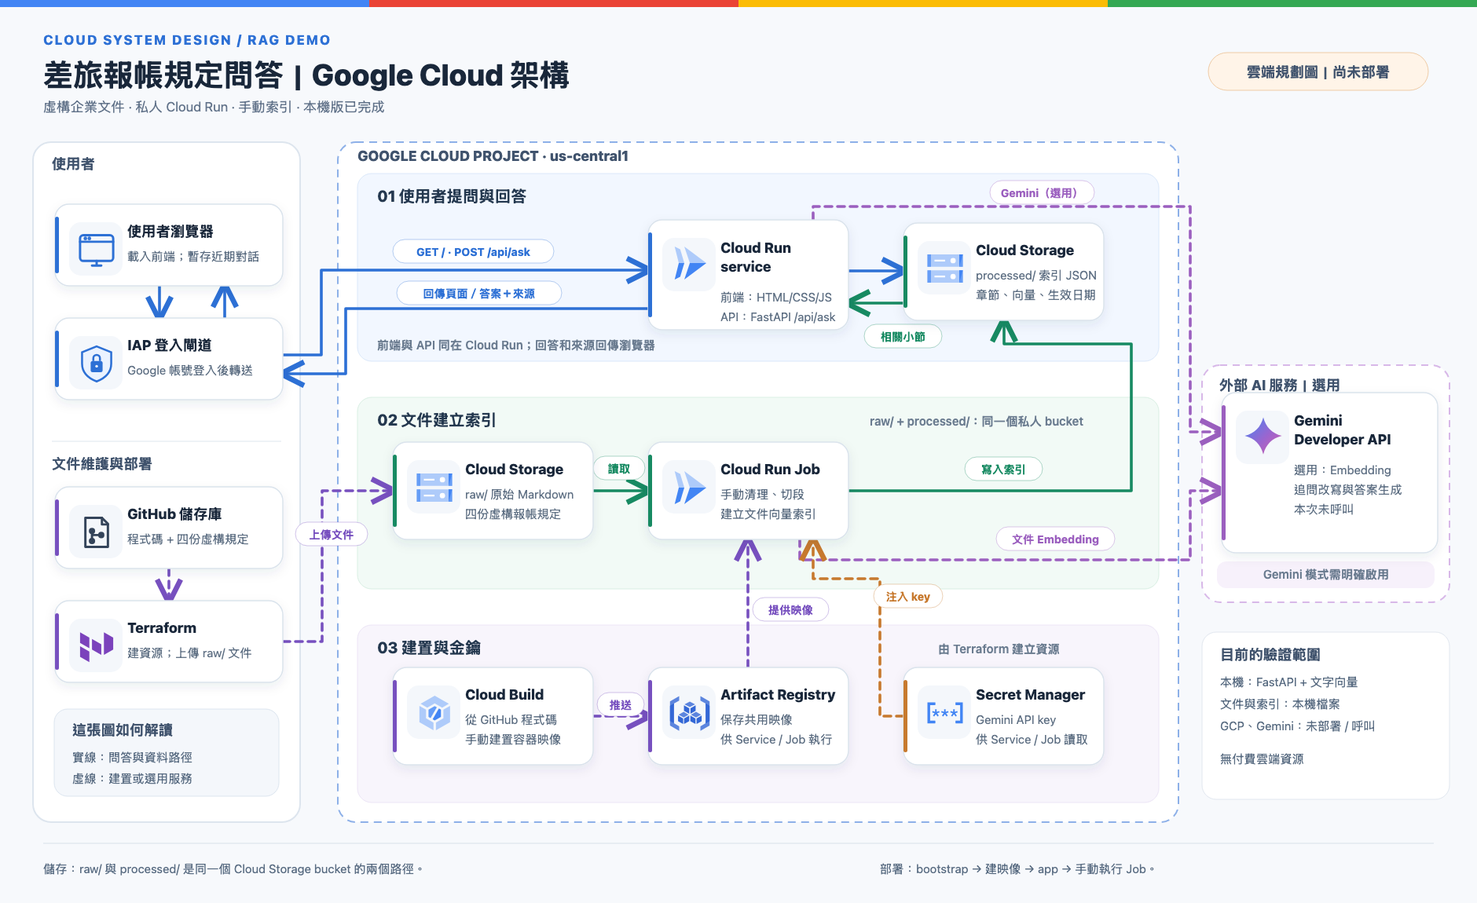
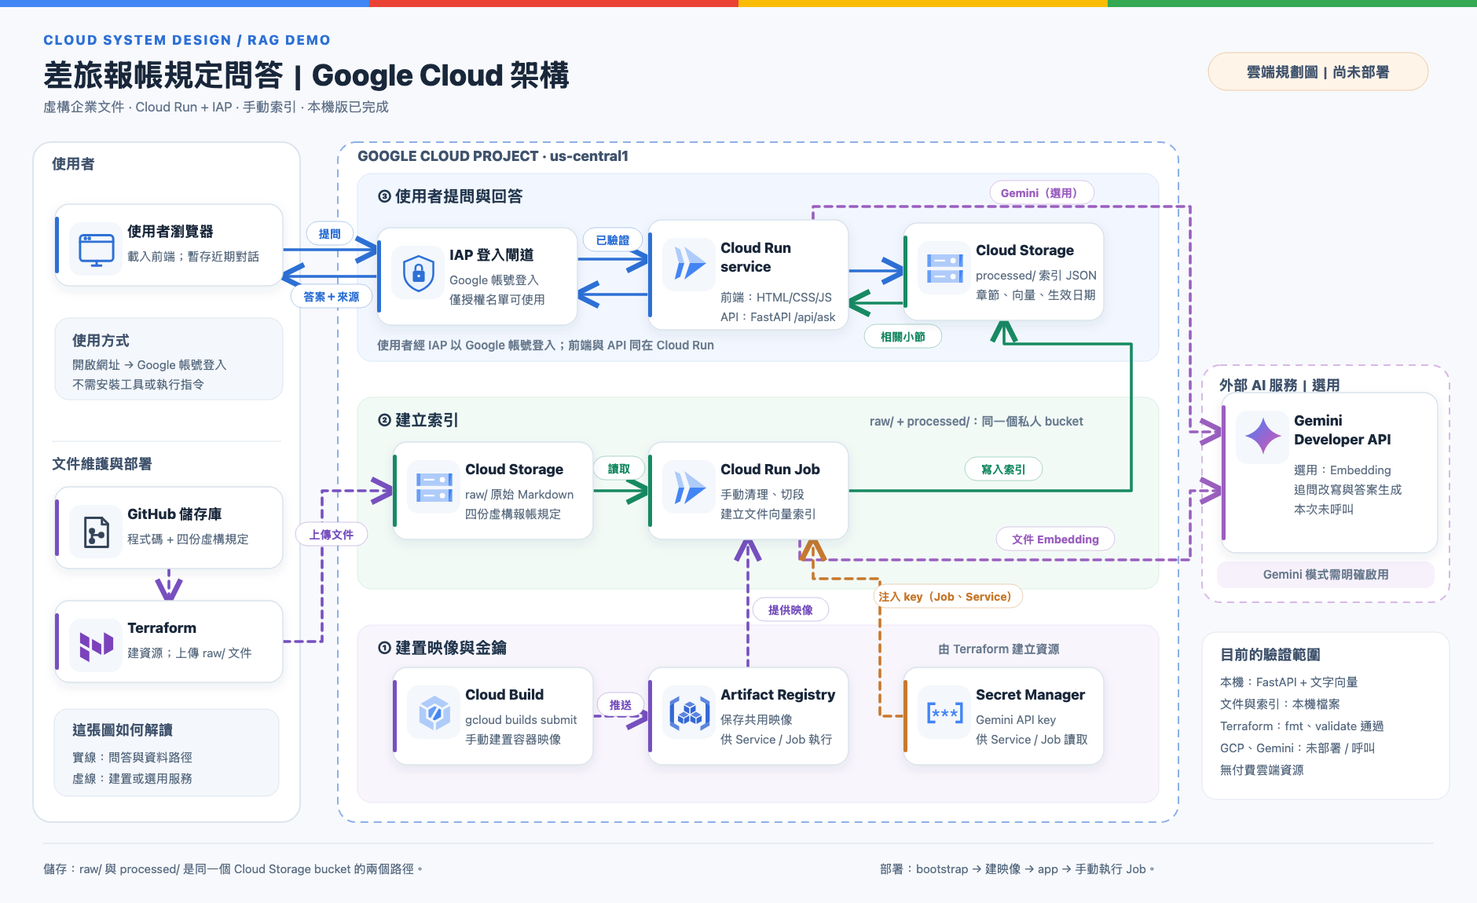
Align README and simple diagram with detailed architecture
Use the same flow numbering (1 build, 2 index, 3 ask) everywhere,
place IAP inside the GCP project, show gcloud builds submit as the
build source, and note that the key is injected into Job and Service.
List README components by flow so they match the diagram boxes.

diff --git a/docs/diagrams/cloud-architecture.html b/docs/diagrams/cloud-architecture.html
@@ -29,7 +29,7 @@
 <rect x="0" y="0" width="470" height="9" fill="#4285F4"/><rect x="470" y="0" width="470" height="9" fill="#EA4335"/><rect x="940" y="0" width="470" height="9" fill="#FBBC05"/><rect x="1410" y="0" width="470" height="9" fill="#34A853"/>
 <text x="55" y="57" class="kicker" >CLOUD SYSTEM DESIGN / RAG DEMO</text>
 <text x="55" y="109" class="title" >差旅報帳規定問答｜Google Cloud 架構</text>
-<text x="55" y="142" class="subtitle" >虛構企業文件 · 私人 Cloud Run · 手動索引 · 本機版已完成</text>
+<text x="55" y="142" class="subtitle" >虛構企業文件 · Cloud Run + IAP · 手動索引 · 本機版已完成</text>
 <rect x="1538" y="67" width="280" height="48" rx="24" fill="#FFF4E8" stroke="#EFCBA5"/>
 <text x="1678" y="98" class="boundary-title" text-anchor="middle" fill="#A56724">雲端規劃圖｜尚未部署</text>
 <rect x="42" y="181" width="340" height="866" rx="23" fill="#FFFFFF" stroke="#DDE5EE" stroke-width="2"/>
@@ -43,18 +43,18 @@
 <text x="66" y="597" class="boundary-title" >文件維護與部署</text>
 <text x="455" y="205" class="boundary-title" >GOOGLE CLOUD PROJECT  ·  us-central1</text>
 <text x="1552" y="497" class="boundary-title" >外部 AI 服務｜選用</text>
-<text x="480" y="257" class="lane-title" >01  使用者提問與回答</text>
-<text x="480" y="445" class="lane-note" >前端與 API 同在 Cloud Run；回答和來源回傳瀏覽器</text>
-<text x="480" y="542" class="lane-title" >02  文件建立索引</text>
+<text x="480" y="257" class="lane-title" >③  使用者提問與回答</text>
+<text x="480" y="445" class="lane-note" >使用者經 IAP 以 Google 帳號登入；前端與 API 同在 Cloud Run</text>
+<text x="480" y="542" class="lane-title" >②  建立索引</text>
 <text x="1107" y="542" class="lane-note" >raw/ + processed/：同一個私人 bucket</text>
-<text x="480" y="832" class="lane-title" >03  建置與金鑰</text>
+<text x="480" y="832" class="lane-title" >①  建置映像與金鑰</text>
 <text x="1194" y="832" class="lane-note" >由 Terraform 建立資源</text>
 <rect x="1549" y="715" width="277" height="34" rx="12" fill="#F7F1FB"/>
 <text x="1688" y="737" class="lane-note" text-anchor="middle" fill="#83519E">Gemini 模式需明確啟用</text>
-<g id="edge-browser-proxy" class="flow flow-blue"><path d="M 203 364 L 203 405" fill="none" stroke="#2D70D5" stroke-width="3.6" stroke-linecap="round" stroke-linejoin="round" marker-end="url(#arrow-blue)"/></g>
-<g id="edge-proxy-browser" class="flow flow-blue"><path d="M 286 405 L 286 364" fill="none" stroke="#2D70D5" stroke-width="3.6" stroke-linecap="round" stroke-linejoin="round" marker-end="url(#arrow-blue)"/></g>
-<g id="edge-proxy-service" class="flow flow-blue"><path d="M 360 452 L 409 452 L 409 344 L 825 344" fill="none" stroke="#2D70D5" stroke-width="3.6" stroke-linecap="round" stroke-linejoin="round" marker-end="url(#arrow-blue)"/></g>
-<g id="edge-service-proxy" class="flow flow-blue"><path d="M 825 393 L 440 393 L 440 476 L 360 476" fill="none" stroke="#2D70D5" stroke-width="3.6" stroke-linecap="round" stroke-linejoin="round" marker-end="url(#arrow-blue)"/></g>
+<g id="edge-browser-iap" class="flow flow-blue"><path d="M 360 318 L 480 318" fill="none" stroke="#2D70D5" stroke-width="3.6" stroke-linecap="round" stroke-linejoin="round" marker-end="url(#arrow-blue)"/></g>
+<g id="edge-iap-browser" class="flow flow-blue"><path d="M 480 352 L 360 352" fill="none" stroke="#2D70D5" stroke-width="3.6" stroke-linecap="round" stroke-linejoin="round" marker-end="url(#arrow-blue)"/></g>
+<g id="edge-iap-service" class="flow flow-blue"><path d="M 735 330 L 825 330" fill="none" stroke="#2D70D5" stroke-width="3.6" stroke-linecap="round" stroke-linejoin="round" marker-end="url(#arrow-blue)"/></g>
+<g id="edge-service-iap" class="flow flow-blue"><path d="M 825 375 L 735 375" fill="none" stroke="#2D70D5" stroke-width="3.6" stroke-linecap="round" stroke-linejoin="round" marker-end="url(#arrow-blue)"/></g>
 <g id="edge-service-index" class="flow flow-blue"><path d="M 1080 345 L 1150 345" fill="none" stroke="#2D70D5" stroke-width="3.6" stroke-linecap="round" stroke-linejoin="round" marker-end="url(#arrow-blue)"/></g>
 <g id="edge-index-service" class="flow flow-green"><path d="M 1150 386 L 1080 386" fill="none" stroke="#178A62" stroke-width="3.6" stroke-linecap="round" stroke-linejoin="round" marker-end="url(#arrow-green)"/></g>
 <g id="edge-repo-terraform" class="flow flow-violet"><path d="M 215 724 L 215 765" fill="none" stroke="#7750BF" stroke-width="3.6" stroke-linecap="round" stroke-linejoin="round" stroke-dasharray="9 7" marker-end="url(#arrow-violet)"/></g>
@@ -66,8 +66,9 @@
 <g id="edge-build-registry" class="flow flow-violet"><path d="M 755 912 L 825 912" fill="none" stroke="#7750BF" stroke-width="3.6" stroke-linecap="round" stroke-linejoin="round" stroke-dasharray="9 7" marker-end="url(#arrow-violet)"/></g>
 <g id="edge-registry-job" class="flow flow-violet"><path d="M 952 850 L 952 687" fill="none" stroke="#7750BF" stroke-width="3.6" stroke-linecap="round" stroke-linejoin="round" stroke-dasharray="9 7" marker-end="url(#arrow-violet)"/></g>
 <g id="edge-secret-job" class="flow flow-orange"><path d="M 1150 912 L 1120 912 L 1120 737 L 1035 737 L 1035 687" fill="none" stroke="#C7792E" stroke-width="3.6" stroke-linecap="round" stroke-linejoin="round" stroke-dasharray="9 7" marker-end="url(#arrow-orange)"/></g>
-<g class="flow flow-blue"><g><rect x="500" y="305" width="205" height="30" rx="15" fill="#fff" stroke="#2D70D5" stroke-opacity=".35"/><text x="602.5" y="326" class="edge-label" text-anchor="middle" fill="#2D70D5">GET / · POST /api/ask</text></g></g>
-<g class="flow flow-blue"><g><rect x="505" y="358" width="210" height="30" rx="15" fill="#fff" stroke="#2D70D5" stroke-opacity=".35"/><text x="610.0" y="379" class="edge-label" text-anchor="middle" fill="#2D70D5">回傳頁面／答案＋來源</text></g></g>
+<g class="flow flow-blue"><g><rect x="390" y="282" width="60" height="30" rx="15" fill="#fff" stroke="#2D70D5" stroke-opacity=".35"/><text x="420.0" y="303" class="edge-label" text-anchor="middle" fill="#2D70D5">提問</text></g></g>
+<g class="flow flow-blue"><g><rect x="370" y="362" width="104" height="30" rx="15" fill="#fff" stroke="#2D70D5" stroke-opacity=".35"/><text x="422.0" y="383" class="edge-label" text-anchor="middle" fill="#2D70D5">答案＋來源</text></g></g>
+<g class="flow flow-blue"><g><rect x="742" y="290" width="76" height="30" rx="15" fill="#fff" stroke="#2D70D5" stroke-opacity=".35"/><text x="780.0" y="311" class="edge-label" text-anchor="middle" fill="#2D70D5">已驗證</text></g></g>
 <g class="flow flow-green"><g><rect x="1100" y="413" width="99" height="30" rx="15" fill="#fff" stroke="#178A62" stroke-opacity=".35"/><text x="1149.5" y="434" class="edge-label" text-anchor="middle" fill="#178A62">相關小節</text></g></g>
 <g class="flow flow-violet"><g><rect x="376" y="665" width="92" height="30" rx="15" fill="#fff" stroke="#7750BF" stroke-opacity=".35"/><text x="422.0" y="686" class="edge-label" text-anchor="middle" fill="#7750BF">上傳文件</text></g></g>
 <g class="flow flow-green"><g><rect x="755" y="581" width="66" height="30" rx="15" fill="#fff" stroke="#178A62" stroke-opacity=".35"/><text x="788.0" y="602" class="edge-label" text-anchor="middle" fill="#178A62">讀取</text></g></g>
@@ -76,19 +77,23 @@
 <g class="flow flow-optional"><g><rect x="1268" y="671" width="151" height="30" rx="15" fill="#fff" stroke="#9B5FBF" stroke-opacity=".35"/><text x="1343.5" y="692" class="edge-label" text-anchor="middle" fill="#9B5FBF">文件 Embedding</text></g></g>
 <g class="flow flow-violet"><g><rect x="760" y="882" width="60" height="30" rx="15" fill="#fff" stroke="#7750BF" stroke-opacity=".35"/><text x="790.0" y="903" class="edge-label" text-anchor="middle" fill="#7750BF">推送</text></g></g>
 <g class="flow flow-violet"><g><rect x="958" y="761" width="97" height="30" rx="15" fill="#fff" stroke="#7750BF" stroke-opacity=".35"/><text x="1006.5" y="782" class="edge-label" text-anchor="middle" fill="#7750BF">提供映像</text></g></g>
-<g class="flow flow-orange"><g><rect x="1112" y="744" width="88" height="30" rx="15" fill="#fff" stroke="#C7792E" stroke-opacity=".35"/><text x="1156.0" y="765" class="edge-label" text-anchor="middle" fill="#C7792E">注入 key</text></g></g>
+<g class="flow flow-orange"><g><rect x="1112" y="744" width="190" height="30" rx="15" fill="#fff" stroke="#C7792E" stroke-opacity=".35"/><text x="1207.0" y="765" class="edge-label" text-anchor="middle" fill="#C7792E">注入 key（Job、Service）</text></g></g>
[14 lines of base64/hex data omitted]
+<rect x="70" y="405" width="290" height="104" rx="18" fill="#F4F7FB" stroke="#DCE5EF"/>
+<text x="92" y="440" class="boundary-title" >使用方式</text>
+<text x="92" y="470" class="footer" >開啟網址 → Google 帳號登入</text>
+<text x="92" y="495" class="footer" >不需安裝工具或執行指令</text>
 <rect x="69" y="903" width="286" height="111" rx="17" fill="#F4F7FB" stroke="#DCE5EF"/>
 <text x="92" y="936" class="boundary-title" >這張圖如何解讀</text>
 <text x="92" y="970" class="footer" >實線：問答與資料路徑</text>
@@ -97,8 +102,9 @@
 <text x="1553" y="840" class="boundary-title" >目前的驗證範圍</text>
 <text x="1553" y="874" class="footer" >本機：FastAPI + 文字向量</text>
 <text x="1553" y="902" class="footer" >文件與索引：本機檔案</text>
-<text x="1553" y="930" class="footer" >GCP、Gemini：未部署 / 呼叫</text>
-<text x="1553" y="972" class="footer" >無付費雲端資源</text>
+<text x="1553" y="930" class="footer" >Terraform：fmt、validate 通過</text>
+<text x="1553" y="958" class="footer" >GCP、Gemini：未部署 / 呼叫</text>
+<text x="1553" y="986" class="footer" >無付費雲端資源</text>
 <line x1="55" y1="1074" x2="1825" y2="1074" stroke="#D7E0E9"/>
 <text x="55" y="1112" class="footer" >儲存：raw/ 與 processed/ 是同一個 Cloud Storage bucket 的兩個路徑。</text>
 <text x="1120" y="1112" class="footer" >部署：bootstrap → 建映像 → app → 手動執行 Job。</text>

diff --git a/docs/diagrams/render_architecture.py b/docs/diagrams/render_architecture.py
@@ -40,14 +40,14 @@ COLORS = {
 NODES = [
     # id, x, y, width, height, icon, title, description lines, color
     ("browser", 70, 260, 290, 104, "browser", "使用者瀏覽器", ["載入前端；暫存近期對話"], "blue"),
-    ("proxy", 70, 405, 290, 104, "proxy", "IAP 登入閘道", ["Google 帳號登入後轉送"], "blue"),
     ("repo", 70, 620, 290, 104, "repo", "GitHub 儲存庫", ["程式碼 + 四份虛構規定"], "violet"),
     ("terraform", 70, 765, 290, 104, "terraform", "Terraform", ["建資源；上傳 raw/ 文件"], "violet"),
+    ("iap", 480, 290, 255, 124, "proxy", "IAP 登入閘道", ["Google 帳號登入", "僅授權名單可使用"], "blue"),
     ("service", 825, 280, 255, 140, "cloud_run", "Cloud Run\nservice", ["前端：HTML/CSS/JS", "API：FastAPI /api/ask"], "blue"),
     ("index", 1150, 284, 255, 124, "cloud_storage", "Cloud Storage", ["processed/ 索引 JSON", "章節、向量、生效日期"], "green"),
     ("raw", 500, 563, 255, 124, "cloud_storage", "Cloud Storage", ["raw/ 原始 Markdown", "四份虛構報帳規定"], "green"),
     ("job", 825, 563, 255, 124, "cloud_run", "Cloud Run Job", ["手動清理、切段", "建立文件向量索引"], "green"),
-    ("build", 500, 850, 255, 124, "cloud_build", "Cloud Build", ["從 GitHub 程式碼", "手動建置容器映像"], "violet"),
+    ("build", 500, 850, 255, 124, "cloud_build", "Cloud Build", ["gcloud builds submit", "手動建置容器映像"], "violet"),
     ("registry", 825, 850, 255, 124, "artifact_registry", "Artifact Registry", ["保存共用映像", "供 Service / Job 執行"], "violet"),
     ("secret", 1150, 850, 255, 124, "secret_manager", "Secret Manager", ["Gemini API key", "供 Service / Job 讀取"], "orange"),
     ("gemini", 1555, 500, 275, 204, "gemini", "Gemini\nDeveloper API", ["選用：Embedding", "追問改寫與答案生成", "本次未呼叫"], "optional"),
@@ -56,10 +56,10 @@ NODE_BY_ID = {node[0]: node for node in NODES}
 
 # Paths are intentionally routed through open corridors, away from service cards.
 EDGES = [
-    ("browser-proxy", "M 203 364 L 203 405", "blue", False, "browser", "proxy", "開啟網址／提問"),
-    ("proxy-browser", "M 286 405 L 286 364", "blue", False, "proxy", "browser", "前端／答案與來源"),
-    ("proxy-service", "M 360 452 L 409 452 L 409 344 L 825 344", "blue", False, "proxy", "service", "GET / · POST /api/ask"),
-    ("service-proxy", "M 825 393 L 440 393 L 440 476 L 360 476", "blue", False, "service", "proxy", "HTML/CSS/JS · 答案 JSON + 來源"),
+    ("browser-iap", "M 360 318 L 480 318", "blue", False, "browser", "iap", "提問"),
+    ("iap-browser", "M 480 352 L 360 352", "blue", False, "iap", "browser", "答案與來源"),
+    ("iap-service", "M 735 330 L 825 330", "blue", False, "iap", "service", "已驗證請求"),
+    ("service-iap", "M 825 375 L 735 375", "blue", False, "service", "iap", "頁面／答案 JSON"),
     ("service-index", "M 1080 345 L 1150 345", "blue", False, "service", "index", "搜尋現行索引"),
     ("index-service", "M 1150 386 L 1080 386", "green", False, "index", "service", "回傳相關小節"),
     ("repo-terraform", "M 215 724 L 215 765", "violet", True, "repo", "terraform", ""),
@@ -151,7 +151,7 @@ def make_svg() -> str:
            '<rect x="0" y="0" width="470" height="9" fill="#4285F4"/><rect x="470" y="0" width="470" height="9" fill="#EA4335"/><rect x="940" y="0" width="470" height="9" fill="#FBBC05"/><rect x="1410" y="0" width="470" height="9" fill="#34A853"/>',
            text(55, 57, "CLOUD SYSTEM DESIGN / RAG DEMO", "kicker"),
            text(55, 109, TITLE, "title"),
-           text(55, 142, "虛構企業文件 · 私人 Cloud Run · 手動索引 · 本機版已完成", "subtitle"),
+           text(55, 142, "虛構企業文件 · Cloud Run + IAP · 手動索引 · 本機版已完成", "subtitle"),
            '<rect x="1538" y="67" width="280" height="48" rx="24" fill="#FFF4E8" stroke="#EFCBA5"/>',
            text(1678, 98, "雲端規劃圖｜尚未部署", "boundary-title", 'text-anchor="middle" fill="#A56724"'),
            '<rect x="42" y="181" width="340" height="866" rx="23" fill="#FFFFFF" stroke="#DDE5EE" stroke-width="2"/>',
@@ -165,11 +165,11 @@ def make_svg() -> str:
            text(66, 597, "文件維護與部署", "boundary-title"),
            text(455, 205, "GOOGLE CLOUD PROJECT  ·  us-central1", "boundary-title"),
            text(1552, 497, "外部 AI 服務｜選用", "boundary-title"),
-           text(480, 257, "01  使用者提問與回答", "lane-title"),
-           text(480, 445, "前端與 API 同在 Cloud Run；回答和來源回傳瀏覽器", "lane-note"),
-           text(480, 542, "02  文件建立索引", "lane-title"),
+           text(480, 257, "③  使用者提問與回答", "lane-title"),
+           text(480, 445, "使用者經 IAP 以 Google 帳號登入；前端與 API 同在 Cloud Run", "lane-note"),
+           text(480, 542, "②  建立索引", "lane-title"),
            text(1107, 542, "raw/ + processed/：同一個私人 bucket", "lane-note"),
-           text(480, 832, "03  建置與金鑰", "lane-title"),
+           text(480, 832, "①  建置映像與金鑰", "lane-title"),
            text(1194, 832, "由 Terraform 建立資源", "lane-note"),
            '<rect x="1549" y="715" width="277" height="34" rx="12" fill="#F7F1FB"/>',
            text(1688, 737, "Gemini 模式需明確啟用", "lane-note", 'text-anchor="middle" fill="#83519E"')]
@@ -180,8 +180,9 @@ def make_svg() -> str:
         out.append(f'<g id="edge-{edge_id}" class="flow flow-{flow}"><path d="{path}" fill="none" stroke="{color}" stroke-width="3.6" stroke-linecap="round" stroke-linejoin="round"{dash} marker-end="url(#arrow-{flow})"/></g>')
     # Labels are reserved for actions that cannot be read from the node names.
     for x, y, value, flow, width in [
-        (500, 305, "GET / · POST /api/ask", "blue", 205),
-        (505, 358, "回傳頁面／答案＋來源", "blue", 210),
+        (390, 282, "提問", "blue", 60),
+        (370, 362, "答案＋來源", "blue", 104),
+        (742, 290, "已驗證", "blue", 76),
         (1100, 413, "相關小節", "green", 99),
         (376, 665, "上傳文件", "violet", 92),
         (755, 581, "讀取", "green", 66),
@@ -190,12 +191,16 @@ def make_svg() -> str:
         (1268, 671, "文件 Embedding", "optional", 151),
         (760, 882, "推送", "violet", 60),
         (958, 761, "提供映像", "violet", 97),
-        (1112, 744, "注入 key", "orange", 88),
+        (1112, 744, "注入 key（Job、Service）", "orange", 190),
     ]:
         out.append(f'<g class="flow flow-{flow}">{pill(x, y, value, COLORS[flow], width)}</g>')
     for node in NODES:
         out.append(node_svg(node))
     out.extend([
+        '<rect x="70" y="405" width="290" height="104" rx="18" fill="#F4F7FB" stroke="#DCE5EF"/>',
+        text(92, 440, "使用方式", "boundary-title"),
+        text(92, 470, "開啟網址 → Google 帳號登入", "footer"),
+        text(92, 495, "不需安裝工具或執行指令", "footer"),
         '<rect x="69" y="903" width="286" height="111" rx="17" fill="#F4F7FB" stroke="#DCE5EF"/>',
         text(92, 936, "這張圖如何解讀", "boundary-title"),
         text(92, 970, "實線：問答與資料路徑", "footer"),
@@ -204,8 +209,9 @@ def make_svg() -> str:
         text(1553, 840, "目前的驗證範圍", "boundary-title"),
         text(1553, 874, "本機：FastAPI + 文字向量", "footer"),
         text(1553, 902, "文件與索引：本機檔案", "footer"),
-        text(1553, 930, "GCP、Gemini：未部署 / 呼叫", "footer"),
-        text(1553, 972, "無付費雲端資源", "footer"),
+        text(1553, 930, "Terraform：fmt、validate 通過", "footer"),
+        text(1553, 958, "GCP、Gemini：未部署 / 呼叫", "footer"),
+        text(1553, 986, "無付費雲端資源", "footer"),
         '<line x1="55" y1="1074" x2="1825" y2="1074" stroke="#D7E0E9"/>',
         text(55, 1112, "儲存：raw/ 與 processed/ 是同一個 Cloud Storage bucket 的兩個路徑。", "footer"),
         text(1120, 1112, "部署：bootstrap → 建映像 → app → 手動執行 Job。", "footer"),
@@ -260,7 +266,7 @@ def make_semantic_spec() -> dict:
     """Keep a small machine-readable component map beside the visual source."""
     types = {
         "repo": "external", "terraform": "external", "browser": "frontend",
-        "proxy": "security", "raw": "database", "job": "backend",
+        "iap": "security", "raw": "database", "job": "backend",
         "index": "database", "service": "backend", "build": "cloud",
         "registry": "cloud", "secret": "security", "gemini": "external",
     }
@@ -283,7 +289,7 @@ def make_semantic_spec() -> dict:
         "meta": {"title": TITLE, "quality_profile": "showcase", "viewBox": [WIDTH, HEIGHT]},
         "components": components,
         "boundaries": [{"kind": "region", "label": "Google Cloud · us-central1",
-                        "wraps": ["raw", "job", "index", "service", "build", "registry", "secret"], "pad": 25}],
+                        "wraps": ["iap", "raw", "job", "index", "service", "build", "registry", "secret"], "pad": 25}],
         "connections": connections,
     }
 

diff --git a/README.md b/README.md
@@ -56,17 +56,22 @@ uvicorn app.main:app --reload --host 127.0.0.1 --port 8000
 
 互動版 [`docs/diagrams/cloud-architecture-detailed.html`](docs/diagrams/cloud-architecture-detailed.html) 含逐步流程導覽；GitHub 不會直接執行 HTML，請下載後以瀏覽器開啟。
 
-| 類別 | 技術及用途 |
-| --- | --- |
-| 產品形式 | 單頁內部文件問答示範；本機可直接執行。 |
-| 前端 | 原生 HTML、CSS、JavaScript；送出問題、顯示回答與來源，不需建置工具。 |
-| 後端 | Python FastAPI 提供網頁與 `/api/ask`；Uvicorn 啟動 HTTP 服務。 |
-| 文件與索引 | Markdown 保存虛構規定；本機索引檔保存章節與文字向量。GCP 規劃改由 Cloud Storage 的 `raw/`、`processed/` 保存。 |
-| 搜尋與 AI | 本機模式用文字向量相似度找小節，零外部呼叫；選用 Gemini Developer API 做 Embedding、追問改寫及生成回答。 |
-| 雲端執行 | Terraform 規劃 Cloud Run service（以 IAP 驗證 Google 帳號登入）、手動 Cloud Run Job、Cloud Build、Artifact Registry、Secret Manager。尚未部署。 |
-| 測試 | pytest 驗證文件處理、版本過濾、索引快取與 API；httpx 用來在測試中呼叫 FastAPI。 |
+下表依架構圖的三條流程整理各元件；雲端部分皆為 Terraform 設定，尚未部署。
 
-使用同一個 Cloud Storage bucket 的兩個路徑，是因為這個示範只有少量文件與章節；不需要為了小型資料量另外維護資料庫或向量服務。雲端服務保持私人存取，API key 不寫入 GitHub 或 Terraform state。這些都是設計目標，雲端設定是否可成功套用尚未實測。
+| 流程 | 元件 | 用途與選擇理由 |
+| --- | --- | --- |
+| ③ 使用者提問 | 前端（原生 HTML、CSS、JavaScript） | 送出問題、顯示回答與來源；單一頁面，不需建置工具。 |
+| ③ 使用者提問 | IAP 登入閘道 | 使用者開啟網址並以 Google 帳號登入，只有授權名單可使用；直接啟用於 Cloud Run，不需 Load Balancer。 |
+| ③ 使用者提問 | Cloud Run Service（FastAPI） | 同時提供網頁與 `/api/ask`；閒置時縮到 0 個實例，最多 1 個。 |
+| ② 建立索引 | Cloud Storage | 同一個私人 bucket：`raw/` 放原始 Markdown，`processed/` 放索引 JSON；資料量小，不另設資料庫。 |
+| ② 建立索引 | Cloud Run Job | 手動觸發，依 `##` 切分章節並建立向量索引；文件處理不需常駐運作。 |
+| ② ③ 選用 | Gemini Developer API | `AI_MODE=gemini` 時才使用，負責 Embedding、追問改寫與生成回答；預設 offline 模式改用本機 TF-IDF，零外部呼叫。 |
+| ① 建置映像 | Cloud Build、Artifact Registry | 以 `gcloud builds submit` 手動建置映像；Job 與 Service 共用同一映像，tag 不可覆寫。 |
+| ① 建置映像 | Secret Manager | 保存 Gemini API key，僅 gemini 模式注入 Job 與 Service；金鑰不進 Git 或 Terraform state。 |
+| 基礎設施 | Terraform | 分 `bootstrap` 與 `app` 兩階段建立資源；Service 與 Job 各用獨立 service account。 |
+| 品質檢查 | pytest、GitHub Actions | 測試文件處理、版本過濾、索引快取與 API；CI 另執行 Terraform `fmt` 與 `validate`，不含部署。 |
+
+雲端設定已通過 Terraform `fmt` 與 `validate` 靜態檢查，但尚未實際套用到 GCP。
 
 ## 測試
 

diff --git a/docs/ARCHITECTURE.md b/docs/ARCHITECTURE.md
@@ -26,9 +26,11 @@
 
 ## 三條主要流程
 
-1. **建立索引：** 雲端規劃是將 GitHub 的假文件經 Terraform 上傳至 `raw/`，手動執行 Job，讀取文件、依 `##` 切小節、標記生效日期，呼叫 Gemini Embedding 後寫入 `processed/`。本機模式則直接讀 `policy_docs/`，在本機建立文字向量索引，完全不連線雲端。
-2. **問答：** 雲端規劃是使用者開啟 Cloud Run 網址、經 IAP 以 Google 帳號登入後呼叫私人 FastAPI，再使用現行索引與 Gemini 整理回答。本機模式直接開本機網頁，FastAPI 用近期對話輔助搜尋，從找到的三個現行小節抽取文字並附來源。找不到支持內容時，明說沒有資料。
-3. **建置：** Terraform 先建儲存與映像庫。使用者手動加入 API key，Cloud Build 建映像後，Terraform 再建 Service、Job 與權限。Job 手動執行一次，才有可供問答的索引。
+編號與架構圖的 ①②③ 一致。
+
+1. **① 建置映像：** Terraform 先建儲存空間與映像庫。（選用）手動把 API key 加入 Secret Manager；以 `gcloud builds submit` 交由 Cloud Build 建置映像後，Terraform 再建 Service、Job、IAP 與權限。
+2. **② 建立索引：** Terraform 把虛構規定上傳至 `raw/`；手動執行 Job，讀取文件、依 `##` 切小節、標記生效日期並建立向量（預設本機 TF-IDF，gemini 模式改用 Gemini Embedding），寫入 `processed/`。本機模式則直接讀 `policy_docs/`，完全不連線雲端。
+3. **③ 使用者提問：** 使用者開啟 Cloud Run 網址、經 IAP 以 Google 帳號登入後呼叫私人 FastAPI。FastAPI 以近期對話輔助搜尋，只在現行規定中找出最相關的三個小節，再抽取文字（gemini 模式改由 Gemini 生成）並附來源。找不到支持內容時，明說沒有資料。
 
 ## 安全與範圍
 
